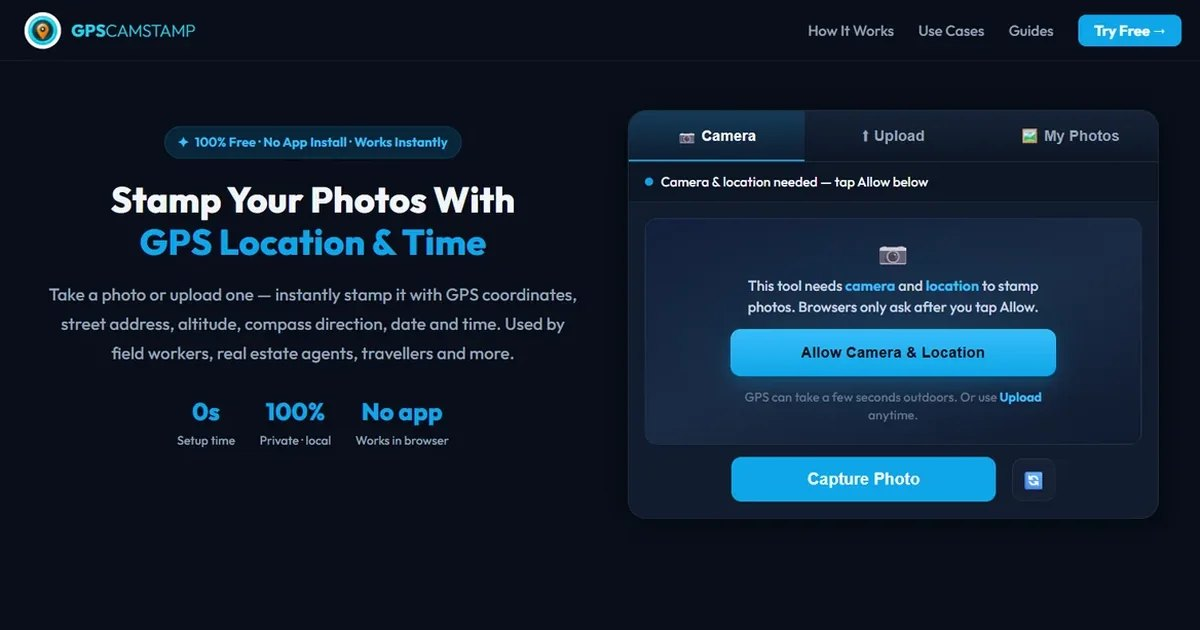
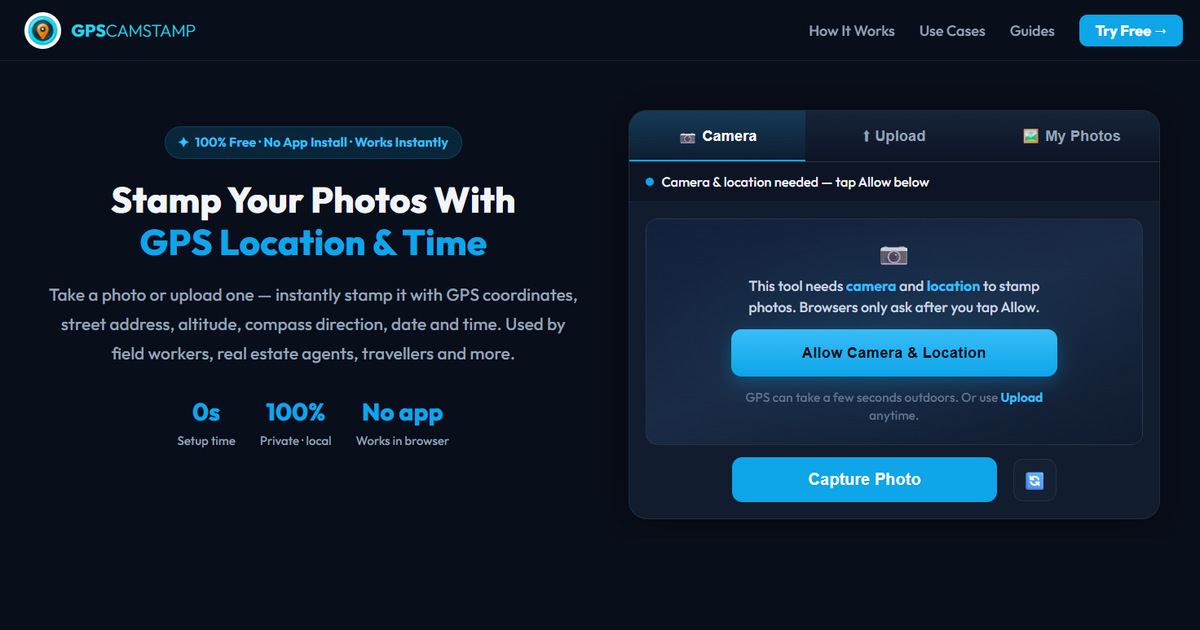
Crop the link preview to the camera tool so the title stays readable.

diff --git a/guides/gps-photo-travel-bloggers.html b/guides/gps-photo-travel-bloggers.html
@@ -23,8 +23,8 @@
 <script type="application/ld+json">{"@context":"https://schema.org","@type":"Article","headline":"GPS-Stamped Travel Photos for Bloggers","description":"How travel photographers use GPS stamps to add location context to travel photography.","url":"https://www.gpscamstamp.com/guides/gps-photo-travel-bloggers.html","publisher":{"@type":"Organization","name":"GPS Cam Stamp","url":"https://www.gpscamstamp.com"}}</script>
   <script async src="https://pagead2.googlesyndication.com/pagead/js/adsbygoogle.js?client=ca-pub-2959862133855422" crossorigin="anonymous"></script>
   <script src="https://js.sentry-cdn.com/699c909d507a75878338bb4685c83e13.min.js" crossorigin="anonymous"></script>
-    <meta property="og:image" content="https://www.gpscamstamp.com/assets/og-image.jpg?v=3">
-    <meta name="twitter:image" content="https://www.gpscamstamp.com/assets/og-image.jpg?v=3">
+    <meta property="og:image" content="https://www.gpscamstamp.com/assets/og-image.jpg?v=4">
+    <meta name="twitter:image" content="https://www.gpscamstamp.com/assets/og-image.jpg?v=4">
 </head>
 <body>
 <nav class="nav">

diff --git a/guides/add-gps-to-photo-desktop.html b/guides/add-gps-to-photo-desktop.html
@@ -23,8 +23,8 @@
 <script type="application/ld+json">{"@context":"https://schema.org","@type":"Article","headline":"Add GPS Stamp to Photos on Desktop","description":"How to add GPS coordinates and location stamp to photos on a desktop or laptop computer.","url":"https://www.gpscamstamp.com/guides/add-gps-to-photo-desktop.html","publisher":{"@type":"Organization","name":"GPS Cam Stamp","url":"https://www.gpscamstamp.com"}}</script>
   <script async src="https://pagead2.googlesyndication.com/pagead/js/adsbygoogle.js?client=ca-pub-2959862133855422" crossorigin="anonymous"></script>
   <script src="https://js.sentry-cdn.com/699c909d507a75878338bb4685c83e13.min.js" crossorigin="anonymous"></script>
-    <meta property="og:image" content="https://www.gpscamstamp.com/assets/og-image.jpg?v=3">
-    <meta name="twitter:image" content="https://www.gpscamstamp.com/assets/og-image.jpg?v=3">
+    <meta property="og:image" content="https://www.gpscamstamp.com/assets/og-image.jpg?v=4">
+    <meta name="twitter:image" content="https://www.gpscamstamp.com/assets/og-image.jpg?v=4">
 </head>
 <body>
 <nav class="nav">

diff --git a/guides/gps-photo-construction-site.html b/guides/gps-photo-construction-site.html
@@ -23,8 +23,8 @@
 <script type="application/ld+json">{"@context":"https://schema.org","@type":"Article","headline":"GPS Photo Stamps for Construction Sites","description":"How to use GPS-stamped photos for construction site documentation and reports.","url":"https://www.gpscamstamp.com/guides/gps-photo-construction-site.html","publisher":{"@type":"Organization","name":"GPS Cam Stamp","url":"https://www.gpscamstamp.com"}}</script>
   <script async src="https://pagead2.googlesyndication.com/pagead/js/adsbygoogle.js?client=ca-pub-2959862133855422" crossorigin="anonymous"></script>
   <script src="https://js.sentry-cdn.com/699c909d507a75878338bb4685c83e13.min.js" crossorigin="anonymous"></script>
-    <meta property="og:image" content="https://www.gpscamstamp.com/assets/og-image.jpg?v=3">
-    <meta name="twitter:image" content="https://www.gpscamstamp.com/assets/og-image.jpg?v=3">
+    <meta property="og:image" content="https://www.gpscamstamp.com/assets/og-image.jpg?v=4">
+    <meta name="twitter:image" content="https://www.gpscamstamp.com/assets/og-image.jpg?v=4">
 </head>
 <body>
 <nav class="nav">

diff --git a/guides/gps-photo-ngo-field-work.html b/guides/gps-photo-ngo-field-work.html
@@ -23,8 +23,8 @@
 <script type="application/ld+json">{"@context":"https://schema.org","@type":"Article","headline":"GPS Photos for NGO Field Reporting","description":"How NGO workers use GPS-stamped photos to prove field presence for grant reporting.","url":"https://www.gpscamstamp.com/guides/gps-photo-ngo-field-work.html","publisher":{"@type":"Organization","name":"GPS Cam Stamp","url":"https://www.gpscamstamp.com"}}</script>
   <script async src="https://pagead2.googlesyndication.com/pagead/js/adsbygoogle.js?client=ca-pub-2959862133855422" crossorigin="anonymous"></script>
   <script src="https://js.sentry-cdn.com/699c909d507a75878338bb4685c83e13.min.js" crossorigin="anonymous"></script>
-    <meta property="og:image" content="https://www.gpscamstamp.com/assets/og-image.jpg?v=3">
-    <meta name="twitter:image" content="https://www.gpscamstamp.com/assets/og-image.jpg?v=3">
+    <meta property="og:image" content="https://www.gpscamstamp.com/assets/og-image.jpg?v=4">
+    <meta name="twitter:image" content="https://www.gpscamstamp.com/assets/og-image.jpg?v=4">
 </head>
 <body>
 <nav class="nav">

diff --git a/guides/gps-photo-remote-workers.html b/guides/gps-photo-remote-workers.html
@@ -23,8 +23,8 @@
 <script type="application/ld+json">{"@context":"https://schema.org","@type":"Article","headline":"GPS Check-In Photos for Remote Workers","description":"How remote workers use GPS-stamped photos to prove on-site presence to clients.","url":"https://www.gpscamstamp.com/guides/gps-photo-remote-workers.html","publisher":{"@type":"Organization","name":"GPS Cam Stamp","url":"https://www.gpscamstamp.com"}}</script>
   <script async src="https://pagead2.googlesyndication.com/pagead/js/adsbygoogle.js?client=ca-pub-2959862133855422" crossorigin="anonymous"></script>
   <script src="https://js.sentry-cdn.com/699c909d507a75878338bb4685c83e13.min.js" crossorigin="anonymous"></script>
-    <meta property="og:image" content="https://www.gpscamstamp.com/assets/og-image.jpg?v=3">
-    <meta name="twitter:image" content="https://www.gpscamstamp.com/assets/og-image.jpg?v=3">
+    <meta property="og:image" content="https://www.gpscamstamp.com/assets/og-image.jpg?v=4">
+    <meta name="twitter:image" content="https://www.gpscamstamp.com/assets/og-image.jpg?v=4">
 </head>
 <body>
 <nav class="nav">

diff --git a/guides/gps-photo-delivery-proof.html b/guides/gps-photo-delivery-proof.html
@@ -23,8 +23,8 @@
 <script type="application/ld+json">{"@context":"https://schema.org","@type":"Article","headline":"GPS Photo Proof of Delivery","description":"How to use GPS-stamped photos as proof of delivery for logistics and courier services.","url":"https://www.gpscamstamp.com/guides/gps-photo-delivery-proof.html","publisher":{"@type":"Organization","name":"GPS Cam Stamp","url":"https://www.gpscamstamp.com"}}</script>
   <script async src="https://pagead2.googlesyndication.com/pagead/js/adsbygoogle.js?client=ca-pub-2959862133855422" crossorigin="anonymous"></script>
   <script src="https://js.sentry-cdn.com/699c909d507a75878338bb4685c83e13.min.js" crossorigin="anonymous"></script>
-    <meta property="og:image" content="https://www.gpscamstamp.com/assets/og-image.jpg?v=3">
-    <meta name="twitter:image" content="https://www.gpscamstamp.com/assets/og-image.jpg?v=3">
+    <meta property="og:image" content="https://www.gpscamstamp.com/assets/og-image.jpg?v=4">
+    <meta name="twitter:image" content="https://www.gpscamstamp.com/assets/og-image.jpg?v=4">
 </head>
 <body>
 <nav class="nav">

diff --git a/guides/gps-photo-insurance-claim.html b/guides/gps-photo-insurance-claim.html
@@ -23,8 +23,8 @@
 <script type="application/ld+json">{"@context":"https://schema.org","@type":"Article","headline":"GPS-Stamped Photos for Insurance Claims","description":"How to use GPS-stamped photos to document damage for insurance claims.","url":"https://www.gpscamstamp.com/guides/gps-photo-insurance-claim.html","publisher":{"@type":"Organization","name":"GPS Cam Stamp","url":"https://www.gpscamstamp.com"}}</script>
   <script async src="https://pagead2.googlesyndication.com/pagead/js/adsbygoogle.js?client=ca-pub-2959862133855422" crossorigin="anonymous"></script>
   <script src="https://js.sentry-cdn.com/699c909d507a75878338bb4685c83e13.min.js" crossorigin="anonymous"></script>
-    <meta property="og:image" content="https://www.gpscamstamp.com/assets/og-image.jpg?v=3">
-    <meta name="twitter:image" content="https://www.gpscamstamp.com/assets/og-image.jpg?v=3">
+    <meta property="og:image" content="https://www.gpscamstamp.com/assets/og-image.jpg?v=4">
+    <meta name="twitter:image" content="https://www.gpscamstamp.com/assets/og-image.jpg?v=4">
 </head>
 <body>
 <nav class="nav">

diff --git a/index.html b/index.html
@@ -35,13 +35,13 @@
   <meta property="og:title" content="GPS Cam Stamp — Free GPS Photo Stamper Online" />
   <meta property="og:description" content="Stamp your photos with GPS location, address, altitude and timestamp — free, instant, no app needed." />
   <meta property="og:url" content="https://www.gpscamstamp.com/" />
-  <meta property="og:image" content="https://www.gpscamstamp.com/assets/og-image.jpg?v=3">
+  <meta property="og:image" content="https://www.gpscamstamp.com/assets/og-image.jpg?v=4">
 
   <!-- Twitter Card -->
   <meta name="twitter:card" content="summary_large_image" />
   <meta name="twitter:title" content="GPS Cam Stamp — Free GPS Photo Stamper" />
   <meta name="twitter:description" content="Add GPS coordinates, address and timestamp to photos. Free, no install, works on desktop and mobile." />
-  <meta name="twitter:image" content="https://www.gpscamstamp.com/assets/og-image.jpg?v=3">
+  <meta name="twitter:image" content="https://www.gpscamstamp.com/assets/og-image.jpg?v=4">
   <meta name="twitter:site" content="@gpscamstamp" />
 
   <!-- JSON-LD -->

diff --git a/guides/gps-photo-real-estate.html b/guides/gps-photo-real-estate.html
@@ -23,8 +23,8 @@
 <script type="application/ld+json">{"@context":"https://schema.org","@type":"Article","headline":"GPS-Stamped Photos for Real Estate","description":"How real estate agents use GPS photo stamps for property documentation.","url":"https://www.gpscamstamp.com/guides/gps-photo-real-estate.html","publisher":{"@type":"Organization","name":"GPS Cam Stamp","url":"https://www.gpscamstamp.com"}}</script>
   <script async src="https://pagead2.googlesyndication.com/pagead/js/adsbygoogle.js?client=ca-pub-2959862133855422" crossorigin="anonymous"></script>
   <script src="https://js.sentry-cdn.com/699c909d507a75878338bb4685c83e13.min.js" crossorigin="anonymous"></script>
-    <meta property="og:image" content="https://www.gpscamstamp.com/assets/og-image.jpg?v=3">
-    <meta name="twitter:image" content="https://www.gpscamstamp.com/assets/og-image.jpg?v=3">
+    <meta property="og:image" content="https://www.gpscamstamp.com/assets/og-image.jpg?v=4">
+    <meta name="twitter:image" content="https://www.gpscamstamp.com/assets/og-image.jpg?v=4">
 </head>
 <body>
 <nav class="nav">

diff --git a/guides/gps-photo-legal-evidence.html b/guides/gps-photo-legal-evidence.html
@@ -23,8 +23,8 @@
 <script type="application/ld+json">{"@context":"https://schema.org","@type":"Article","headline":"GPS Photos as Legal Evidence","description":"Using GPS-stamped photos in court, property disputes and boundary claims.","url":"https://www.gpscamstamp.com/guides/gps-photo-legal-evidence.html","publisher":{"@type":"Organization","name":"GPS Cam Stamp","url":"https://www.gpscamstamp.com"}}</script>
   <script async src="https://pagead2.googlesyndication.com/pagead/js/adsbygoogle.js?client=ca-pub-2959862133855422" crossorigin="anonymous"></script>
   <script src="https://js.sentry-cdn.com/699c909d507a75878338bb4685c83e13.min.js" crossorigin="anonymous"></script>
-    <meta property="og:image" content="https://www.gpscamstamp.com/assets/og-image.jpg?v=3">
-    <meta name="twitter:image" content="https://www.gpscamstamp.com/assets/og-image.jpg?v=3">
+    <meta property="og:image" content="https://www.gpscamstamp.com/assets/og-image.jpg?v=4">
+    <meta name="twitter:image" content="https://www.gpscamstamp.com/assets/og-image.jpg?v=4">
 </head>
 <body>
 <nav class="nav">

diff --git a/guides/index.html b/guides/index.html
@@ -22,8 +22,8 @@
   <link rel="apple-touch-icon" href="../assets/apple-touch-icon.png?v=18" />
 <script async src="https://pagead2.googlesyndication.com/pagead/js/adsbygoogle.js?client=ca-pub-2959862133855422" crossorigin="anonymous"></script>
   <script src="https://js.sentry-cdn.com/699c909d507a75878338bb4685c83e13.min.js" crossorigin="anonymous"></script>
-    <meta property="og:image" content="https://www.gpscamstamp.com/assets/og-image.jpg?v=3">
-    <meta name="twitter:image" content="https://www.gpscamstamp.com/assets/og-image.jpg?v=3">
+    <meta property="og:image" content="https://www.gpscamstamp.com/assets/og-image.jpg?v=4">
+    <meta name="twitter:image" content="https://www.gpscamstamp.com/assets/og-image.jpg?v=4">
 </head>
 <body>
 <nav class="nav">

diff --git a/about.html b/about.html
@@ -22,8 +22,8 @@
   <link rel="apple-touch-icon" href="assets/apple-touch-icon.png?v=18" />
 <script async src="https://pagead2.googlesyndication.com/pagead/js/adsbygoogle.js?client=ca-pub-2959862133855422" crossorigin="anonymous"></script>
   <script src="https://js.sentry-cdn.com/699c909d507a75878338bb4685c83e13.min.js" crossorigin="anonymous"></script>
-    <meta property="og:image" content="https://www.gpscamstamp.com/assets/og-image.jpg?v=3">
-    <meta name="twitter:image" content="https://www.gpscamstamp.com/assets/og-image.jpg?v=3">
+    <meta property="og:image" content="https://www.gpscamstamp.com/assets/og-image.jpg?v=4">
+    <meta name="twitter:image" content="https://www.gpscamstamp.com/assets/og-image.jpg?v=4">
 </head>
 <body>
 <nav class="nav">
